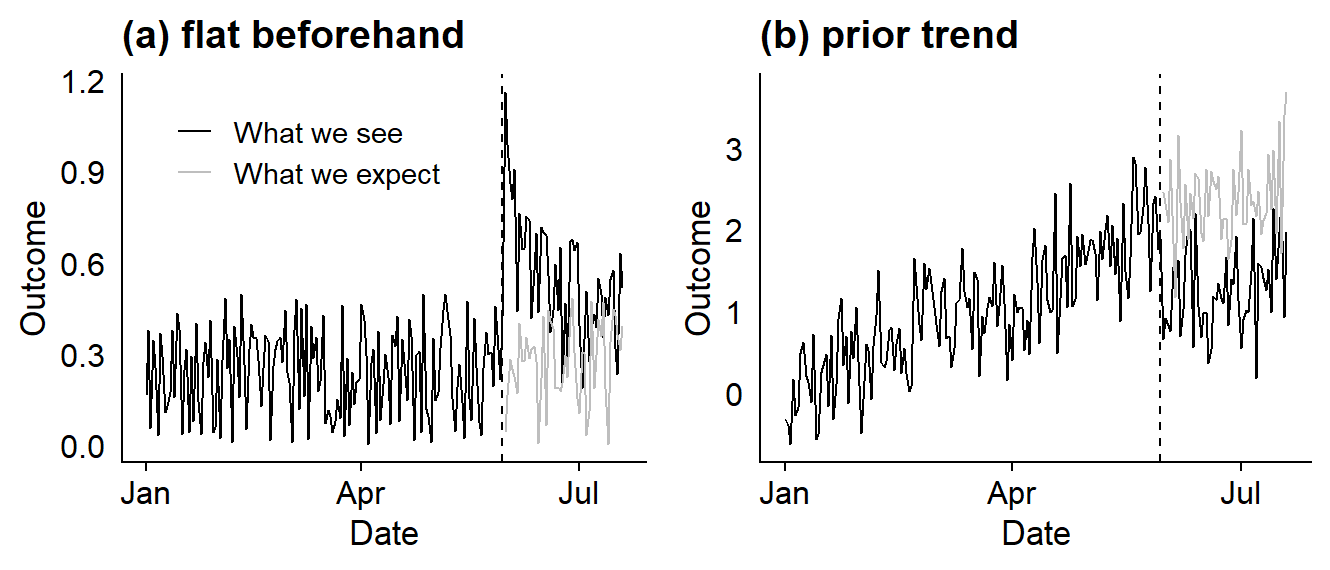
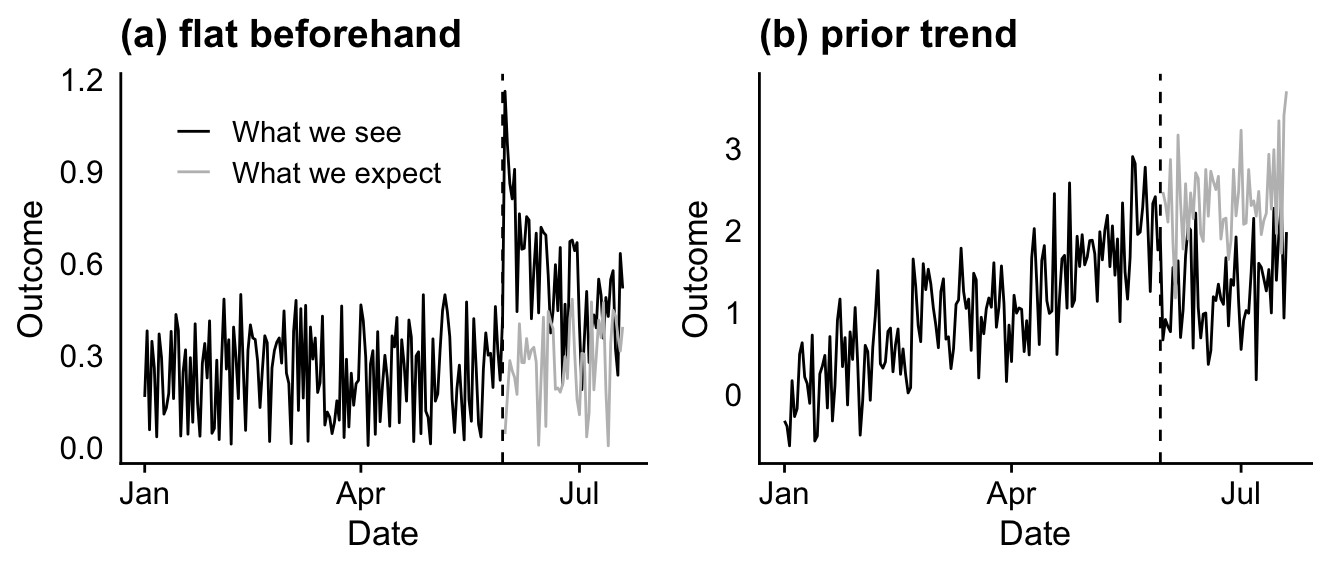
replaced time series models graphic with OJS graphic

diff --git a/EventStudies/EventStudies.html b/EventStudies/EventStudies.html
@@ -121,11 +121,11 @@ Event studies are designed to work in cases where the relevant causal diagram lo
 
 
 &lt;div class="figure"&gt;
-<div id="htmlwidget-033442e9220218f6d00a" style="width:100%;height:300px;" class="grViz html-widget"></div>
+<div id="htmlwidget-35b1b99f7f44a9e15dae" style="width:100%;height:300px;" class="grViz html-widget "></div>
 <script>HTMLWidgets.pymChild = new pym.Child();HTMLWidgets.addPostRenderHandler(function(){
                                 setTimeout(function(){HTMLWidgets.pymChild.sendHeight();},100);
                             });</script>
-<script type="application/json" data-for="htmlwidget-033442e9220218f6d00a">{"x":{"diagram":"digraph \"Causal Diagramm RDD\" {\n  layout=neato\n  fontname=\"Helvetica,Arial,sans-serif\"\n  bgcolor=transparent\n  imagescale=both\n  node [fontname=\"Helvetica,Arial,sans-serif\"]\n  edge [fontname=\"Helvetica,Arial,sans-serif\"]\n  node [shape=none];\n  \"Time\" [pos=\"2,2!\"]\n  \"AfterEvent\" [pos=\"0,0!\"]\n  \"Treatment\" [pos=\"2,0!\"]\n  \"Outcome\" [pos=\"4,0!\"]\n\n  \n  \"Time\" -> \"AfterEvent\"\n   \"Time\" ->  \"Outcome\"\n  \"AfterEvent\" -> \"Treatment\"\n   \"Treatment\" -> \"Outcome\"\n  \n}","config":{"engine":"dot","options":null}},"evals":[],"jsHooks":[]}</script>
+<script type="application/json" data-for="htmlwidget-35b1b99f7f44a9e15dae">{"x":{"diagram":"digraph \"Causal Diagramm RDD\" {\n  layout=neato\n  fontname=\"Helvetica,Arial,sans-serif\"\n  bgcolor=transparent\n  imagescale=both\n  node [fontname=\"Helvetica,Arial,sans-serif\"]\n  edge [fontname=\"Helvetica,Arial,sans-serif\"]\n  node [shape=none];\n  \"Time\" [pos=\"2,2!\"]\n  \"AfterEvent\" [pos=\"0,0!\"]\n  \"Treatment\" [pos=\"2,0!\"]\n  \"Outcome\" [pos=\"4,0!\"]\n\n  \n  \"Time\" -> \"AfterEvent\"\n   \"Time\" ->  \"Outcome\"\n  \"AfterEvent\" -> \"Treatment\"\n   \"Treatment\" -> \"Outcome\"\n  \n}","config":{"engine":"dot","options":null}},"evals":[],"jsHooks":[]}</script>
 &lt;p class="caption"&gt;1: Causal diagram that event studies work for&lt;/p&gt;
 &lt;/div&gt;
 ---
@@ -560,11 +560,36 @@ An ARMA(2,1) model includes two autoregressive terms and one moving-average term
 
 ---
 # <svg aria-hidden="true" role="img" viewBox="0 0 576 512" style="height:45px;width:50.62px;vertical-align:-0.125em;margin-left:auto;margin-right:auto;font-size:inherit;fill:currentColor;overflow:visible;position:relative;"><path d="M384 64c0-17.7 14.3-32 32-32H544c17.7 0 32 14.3 32 32s-14.3 32-32 32H448v96c0 17.7-14.3 32-32 32H320v96c0 17.7-14.3 32-32 32H192v96c0 17.7-14.3 32-32 32H32c-17.7 0-32-14.3-32-32s14.3-32 32-32h96V320c0-17.7 14.3-32 32-32h96V192c0-17.7 14.3-32 32-32h96V64z"/></svg> Forecasting properly with time series methods
-&lt;/br&gt;
-&lt;div class="figure" style="text-align: center"&gt;
-&lt;img src="EventStudies_files/figure-html/unnamed-chunk-7-1.png" alt="4: Different time series processes" width="70%" style="display:block; margin-right:auto; margin-left:auto;" /&gt;
-&lt;p class="caption"&gt;4: Different time series processes&lt;/p&gt;
+
+&lt;div class="thecontainer"&gt;
+  &lt;div id="observablehq-theplot-f58190fb"&gt;&lt;/div&gt;
+  &lt;div class="right-aligned"&gt;
+    &lt;ul style="list-style-type:none;"&gt;
+      &lt;li&gt;&lt;div id="observablehq-viewof-phi-f58190fb"&gt;&lt;/div&gt;&lt;/li&gt;
+      &lt;li&gt;&lt;div id="observablehq-viewof-theta-f58190fb"&gt;&lt;/div&gt;&lt;/li&gt;
+      &lt;li&gt;&lt;div id="observablehq-viewof-start-f58190fb"&gt;&lt;/div&gt;&lt;/li&gt;
+      &lt;li&gt;&lt;div id="observablehq-viewof-sigma-f58190fb"&gt;&lt;/div&gt;&lt;/li&gt;
+      &lt;li&gt;&lt;div id="observablehq-viewof-n-f58190fb"&gt;&lt;/div&gt;&lt;/li&gt;
+      &lt;li&gt;&lt;div id="observablehq-viewof-mu-f58190fb"&gt;&lt;/div&gt;&lt;/li&gt;
+    &lt;/ul&gt;
+  &lt;/div&gt;
 &lt;/div&gt;
+
+&lt;link rel="stylesheet" href="https://cdn.jsdelivr.net/npm/@observablehq/inspector@5/dist/inspector.css"&gt;
+&lt;script type="module"&gt;
+import {Runtime, Inspector} from "https://cdn.jsdelivr.net/npm/@observablehq/runtime@5/dist/runtime.js";
+import define from "https://api.observablehq.com/d/9bdf2b5b3279afc0@207.js?v=4";
+new Runtime().module(define, name =&gt; {
+  if (name === "viewof phi") return new Inspector(document.querySelector("#observablehq-viewof-phi-f58190fb"));
+  if (name === "viewof theta") return new Inspector(document.querySelector("#observablehq-viewof-theta-f58190fb"));
+  if (name === "viewof start") return new Inspector(document.querySelector("#observablehq-viewof-start-f58190fb"));
+  if (name === "viewof sigma") return new Inspector(document.querySelector("#observablehq-viewof-sigma-f58190fb"));
+  if (name === "viewof n") return new Inspector(document.querySelector("#observablehq-viewof-n-f58190fb"));
+  if (name === "viewof mu") return new Inspector(document.querySelector("#observablehq-viewof-mu-f58190fb"));
+  if (name === "theplot") return new Inspector(document.querySelector("#observablehq-theplot-f58190fb"));
+  return ["ymean","arma11","combinedData","newYDomain","errors"].includes(name);
+});
+&lt;/script&gt;
 
 
 ---
